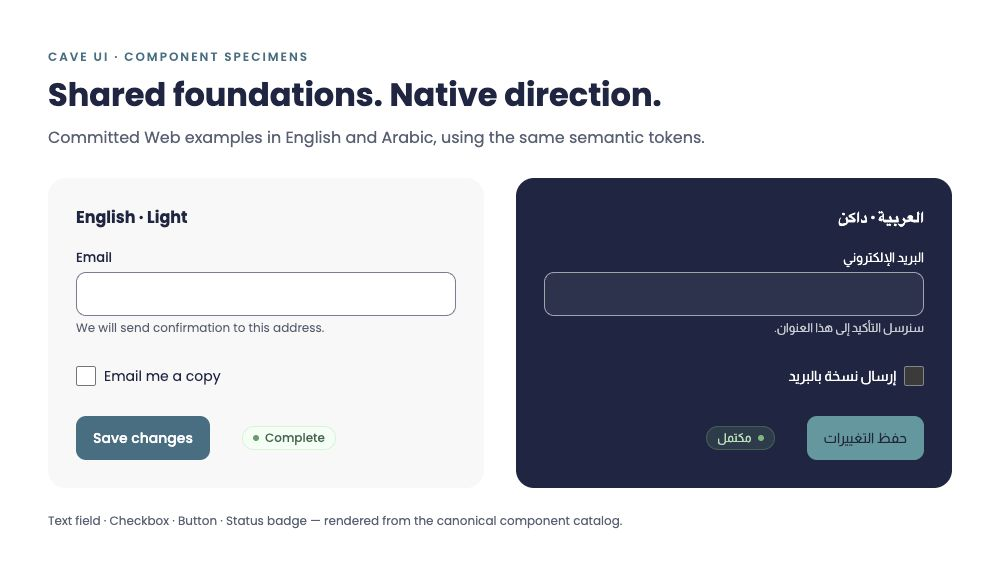
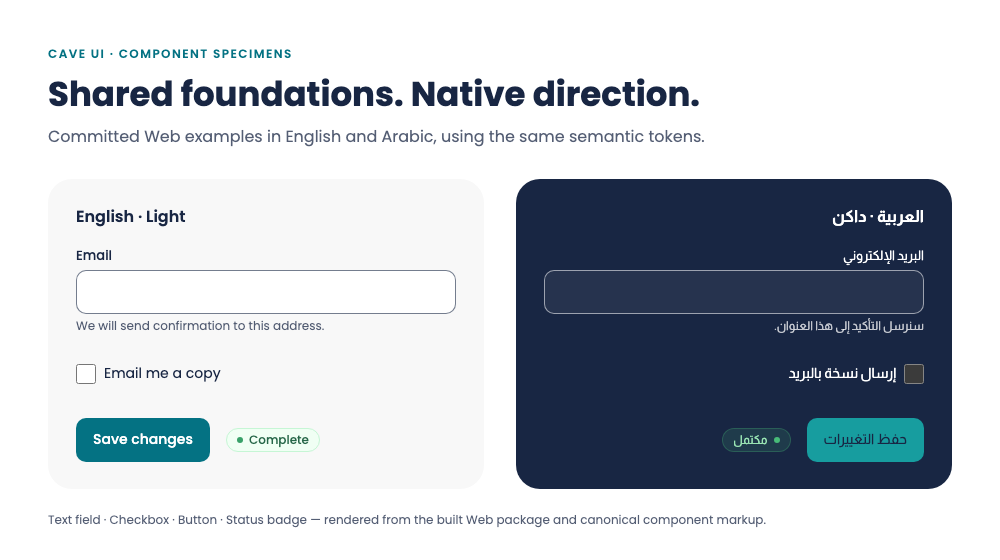
fix(design): make the Arabic home canonical /ar, document raw-palette contrast
- href('ar', '/') produced /ar/, which hosting redirects to /ar; canonical, hreflang,
  sitemap and the brand link now use /ar.
- Colour guidance (English and Arabic) says plain teal is not a text colour, slate and
  mint are decorative, and input edges use border-strong; a test locks those figures.
- Re-render the README component image from the built package; the old image showed
  desaturated colours that did not match the tokens.
- State in COMPATIBILITY that Hero is never served or packaged.

diff --git a/docs/COMPATIBILITY.md b/docs/COMPATIBILITY.md
@@ -10,7 +10,7 @@
 | Digits | auto defaults to Latin for English and Arabic-Indic for Arabic. latn/arab override survives locale changes. IDs, phone numbers and emails retain their own direction. |
 | Number formatting | Web delegates to Intl, including currency/calendar options. Flutter's dependency-free decimal formatter handles finite values below 1e21 and 0–6 fixed decimal places. It does not implement arbitrary international currency rules. |
 | Date formatting | Web Intl; Flutter SDK MaterialLocalizations plus digit shaping. Calendar conversion is application-owned. |
-| Fonts | Optional local Poppins/Almarai with OFL notices. No mandatory font download by package code. |
+| Fonts | Optional local Poppins/Almarai with OFL notices. No mandatory font download by package code. Hero is proprietary and never served or packaged: `--font-display` resolves to Poppins here, and a product with its own Hero licence puts Hero first in its own override. |
 | Accessibility | Automated semantics/contrast/interaction tests plus Flutter text-scaling tests. Human assistive-technology review remains separate. |
 
 Documentation currently describes the working tree; it is not a versioned stable

diff --git a/docs/readme-assets/NOTICE.md b/docs/readme-assets/NOTICE.md
@@ -1,6 +1,6 @@
 # README artwork
 
-`components.png` is a documentation composition of the canonical Web TextField, Checkbox, Button and StatusBadge examples in `source/catalog.mjs`, rendered with `source/components/core.css` and values from `source/tokens.json` at base commit `86bba3aec562860b904a14a7a19e959fddd814d2`.
+`components.png` is a documentation composition of the canonical Web TextField, Checkbox, Button and StatusBadge examples in `source/catalog.mjs`, rendered in Chromium from the built Web package (`packages/core/dist/styles.css` and `tokens.css`) with the real component markup. An earlier version of this image showed desaturated colours that did not match the tokens (Light primary button `#4a6d80` instead of lagoon `#047283`); it was re-rendered and the button colours checked against `source/tokens.json`.
 
 The English Light and Arabic Dark specimens use the committed Poppins and Almarai fonts, which retain their included SIL OFL notices in `source/fonts/`. This is a Web component specimen, not a product screenshot or a Flutter rendering. Package code and generated tokens retain the existing MIT terms in `packages/LICENSE`.
 
